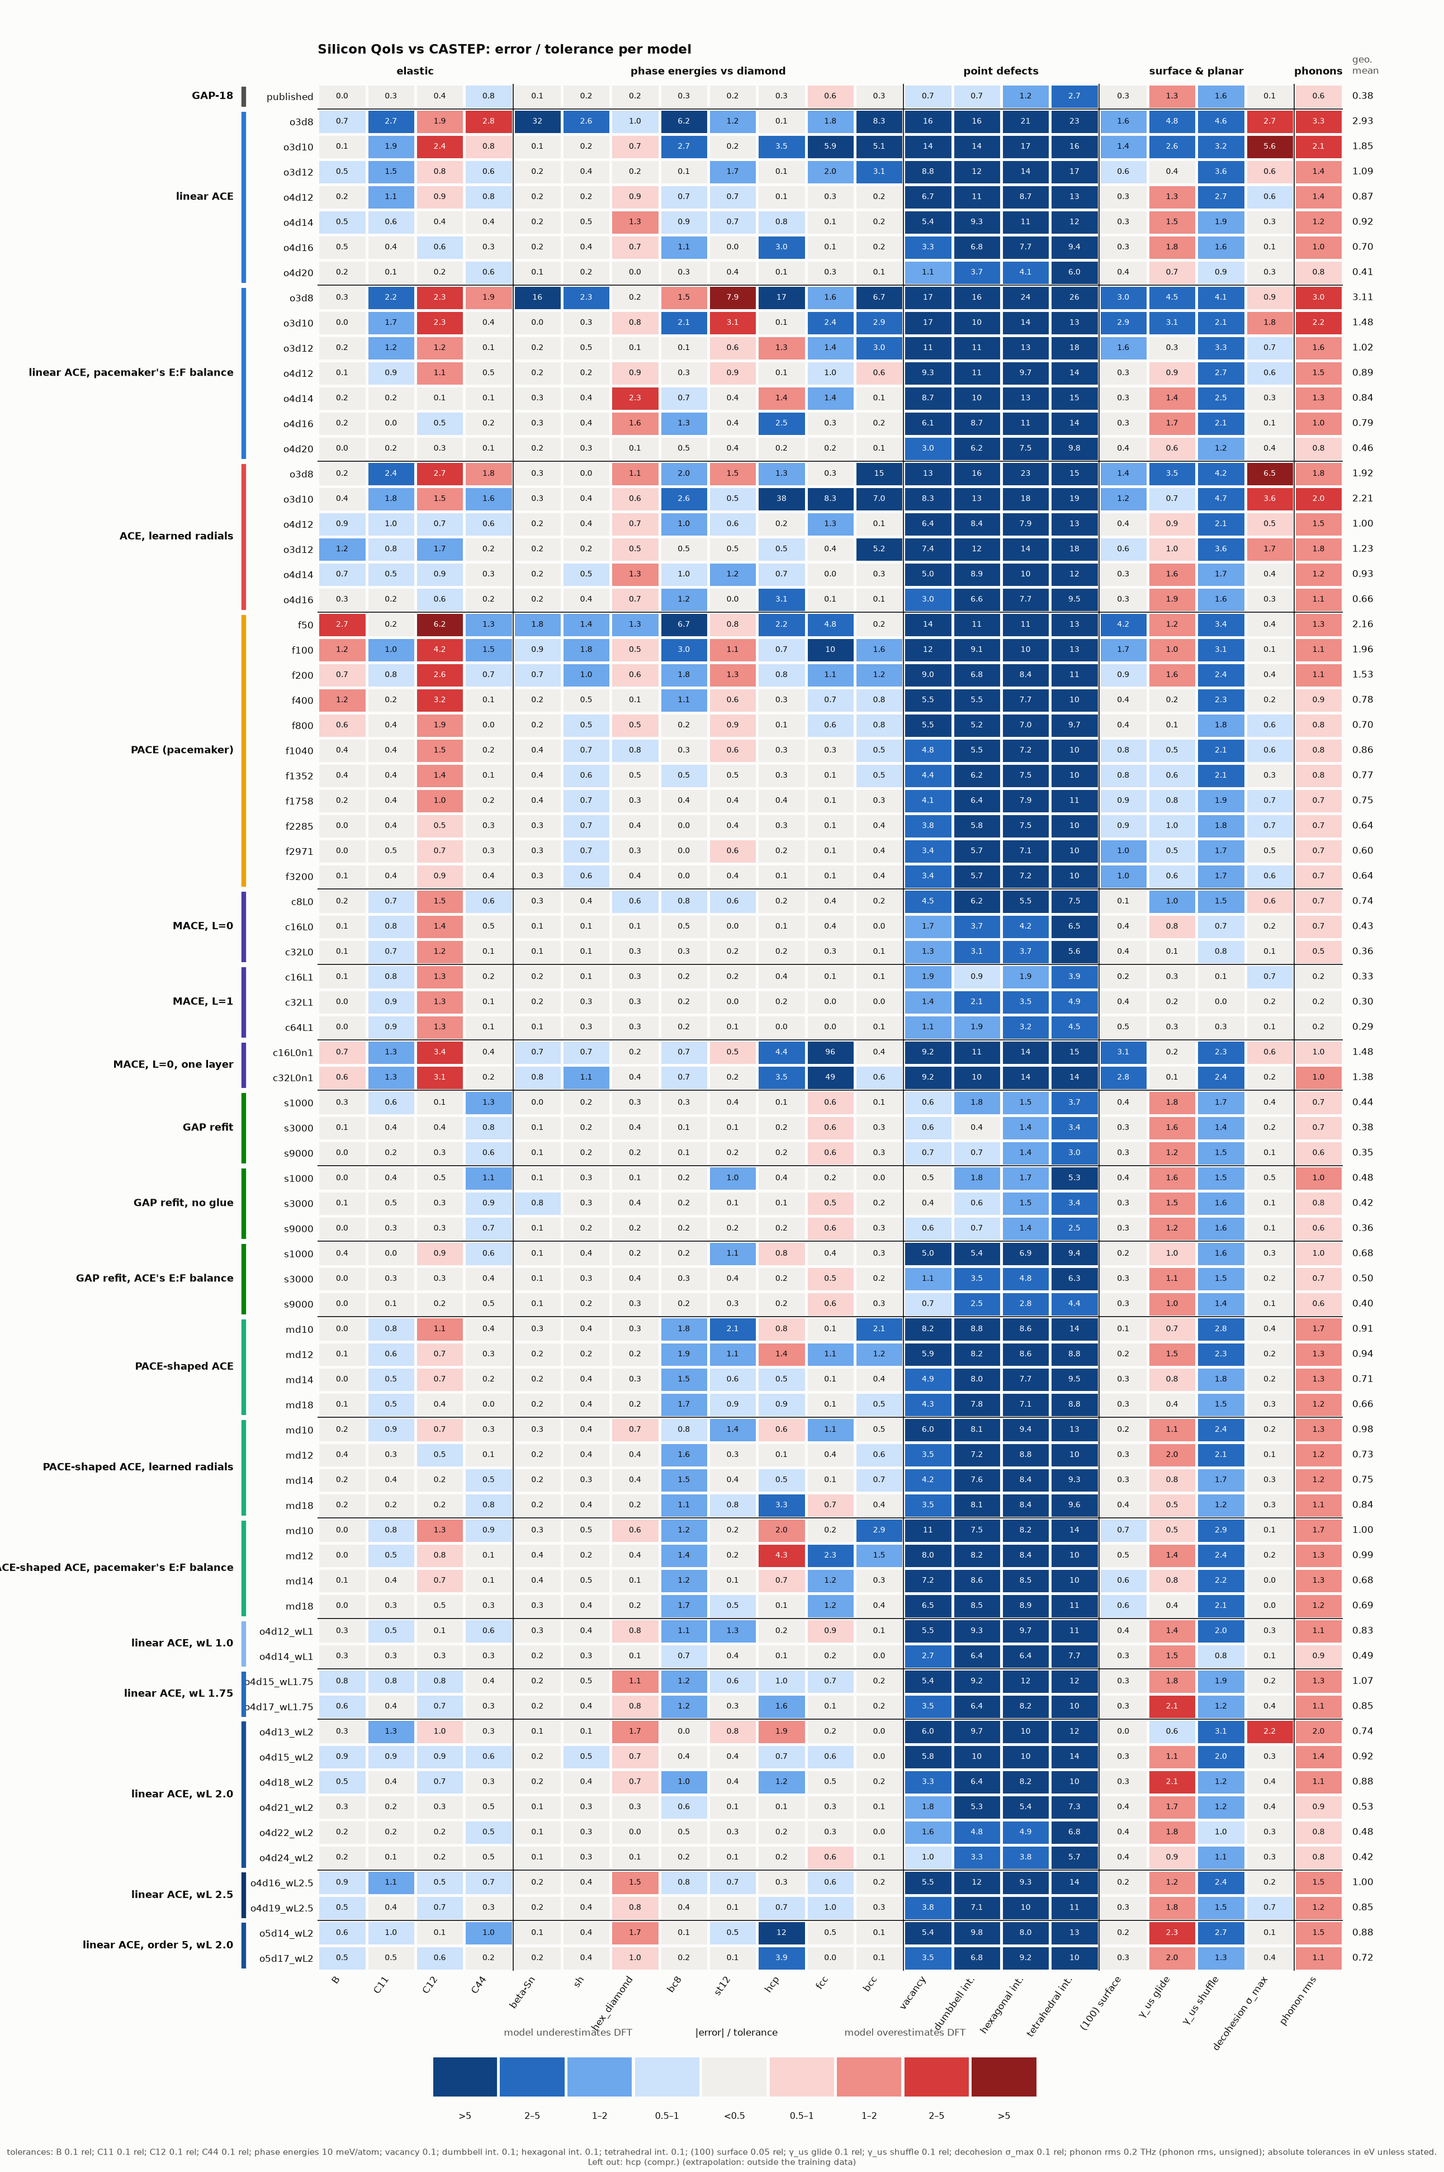
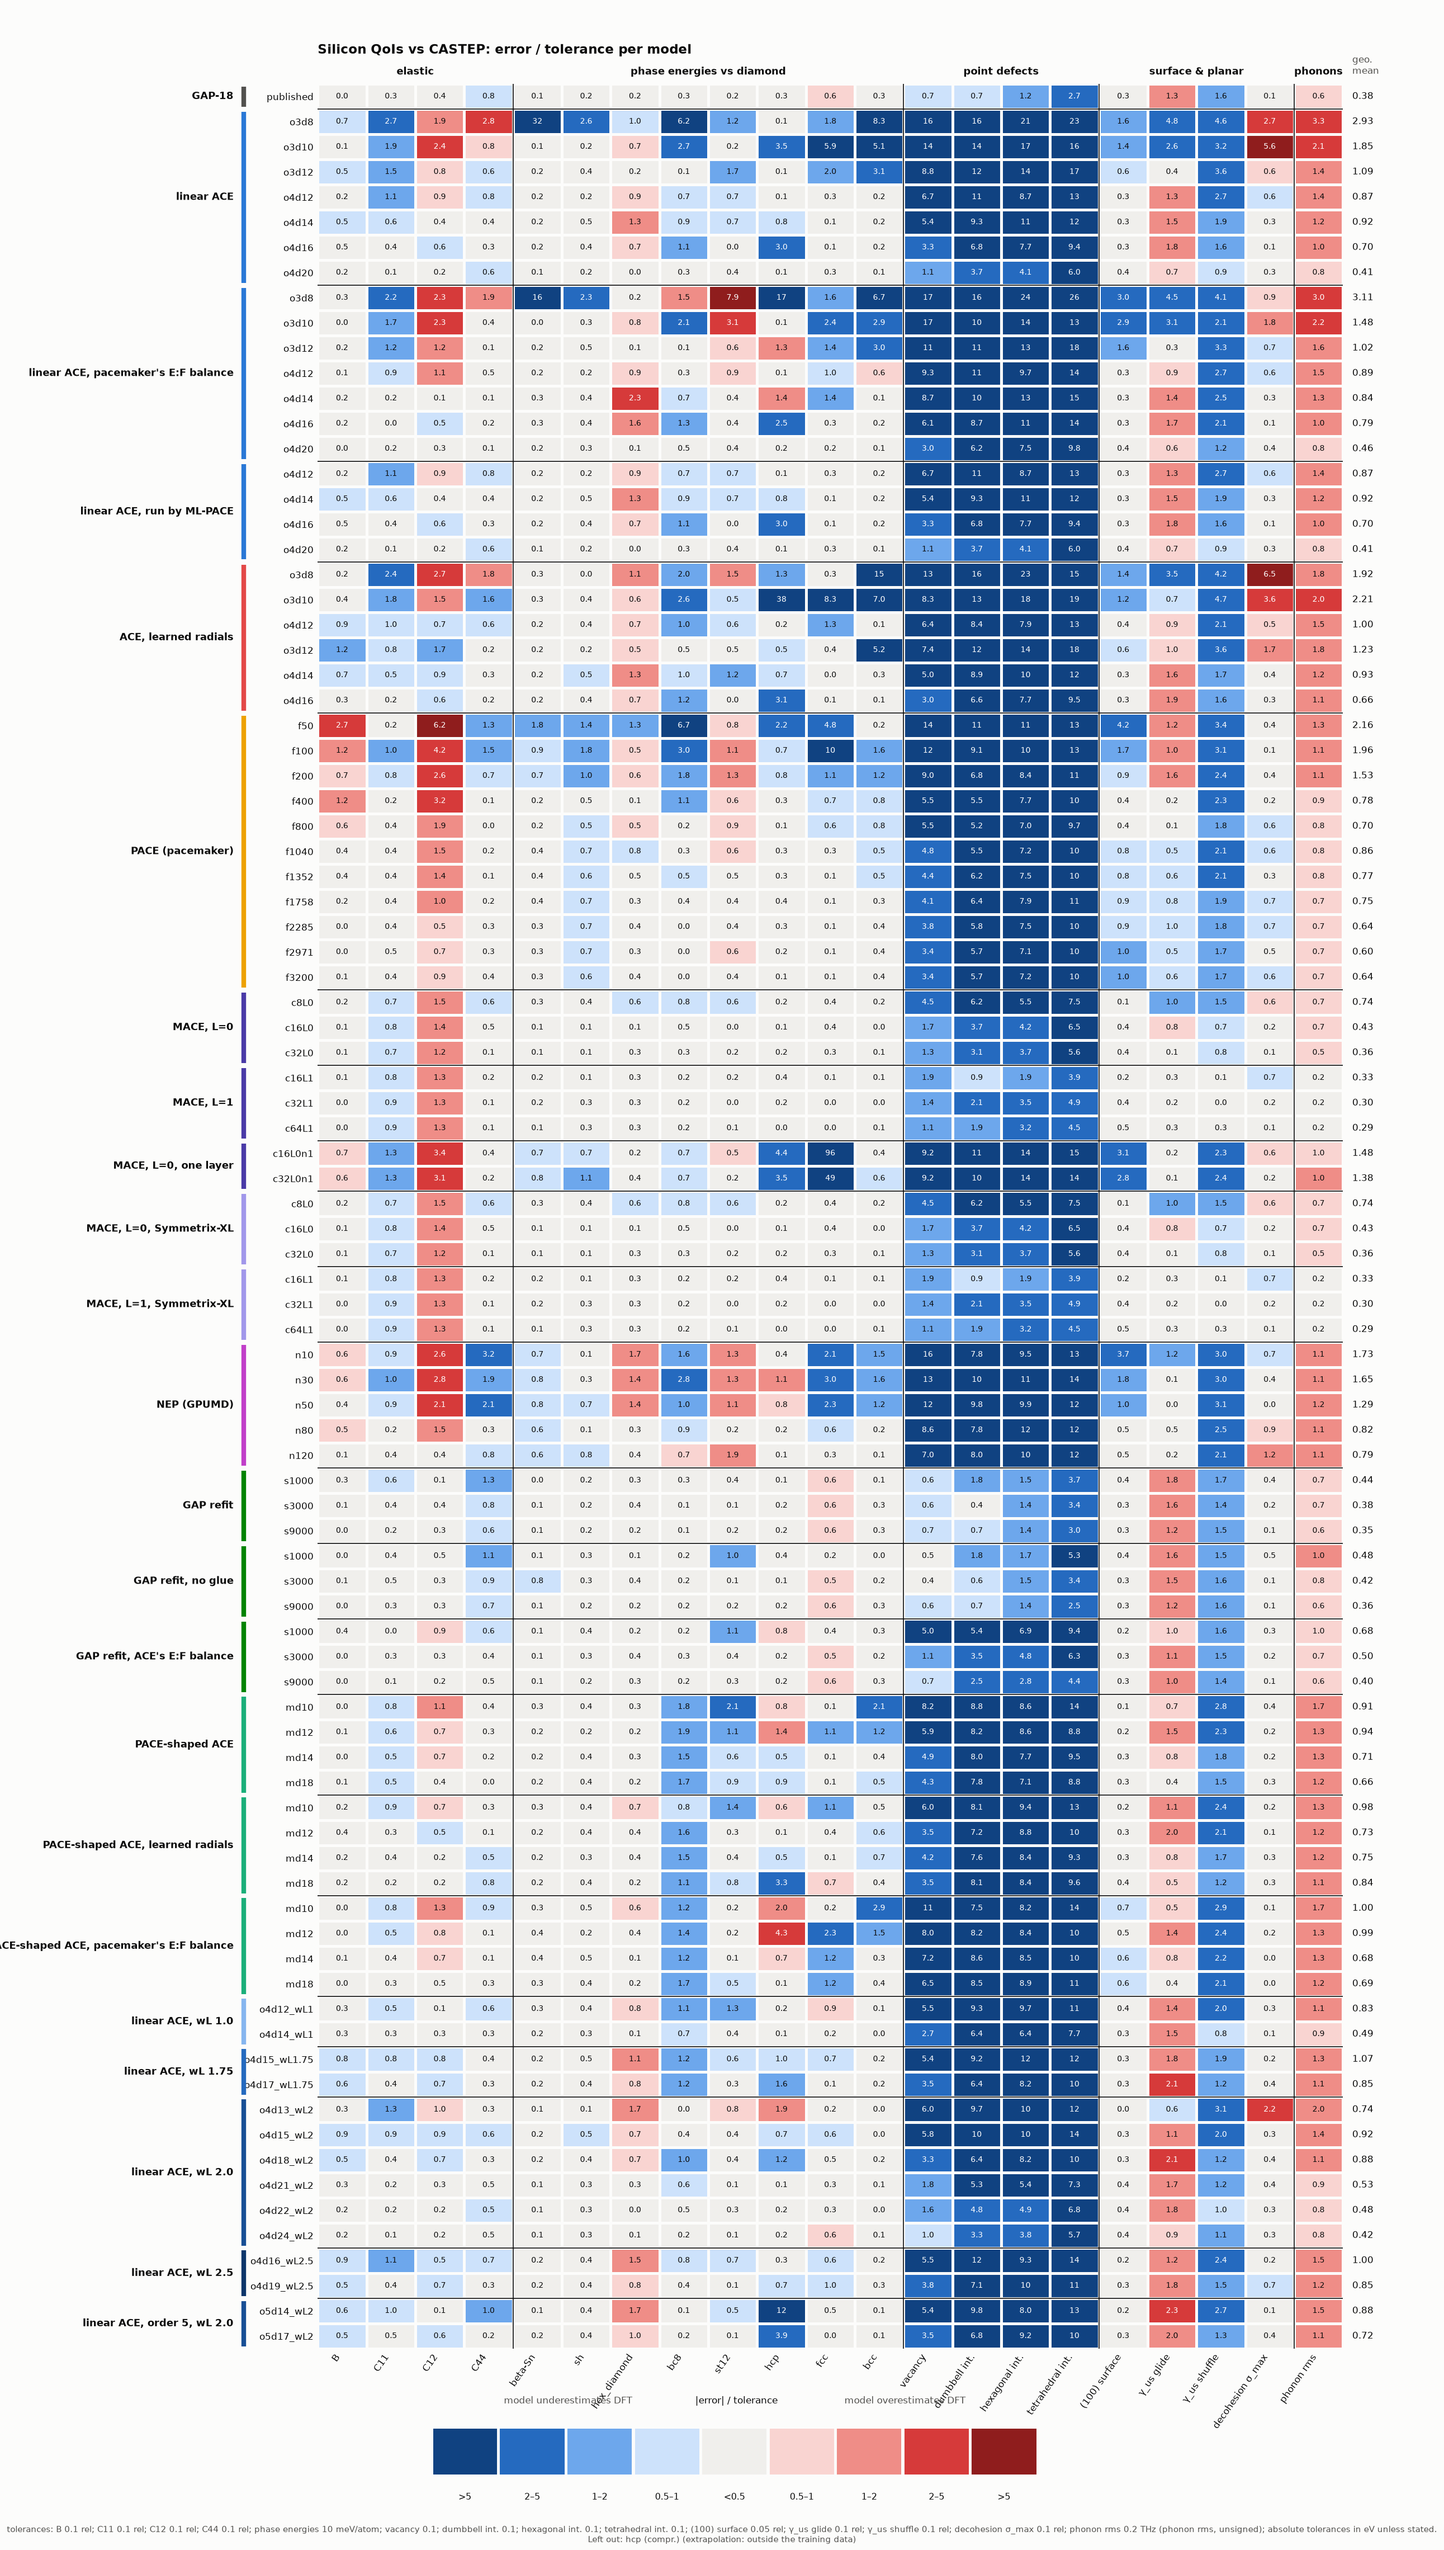
feat(bench): NEP results in the silicon accuracy-cost benchmark
Five GPUMD NEP4 fits (n10-n120) scored in float64 with NEP_CPU (calorine) and
timed on a Sulis CPU node with LAMMPS pair_style nep (128 ranks, gated against
CPUNEP to < 2e-14 eV/A). None reaches the target: best force RMSE 0.107 eV/A,
best QoI error 0.79; CPU cost 0.55-1.9 us/atom-step. No GPU row (GPUMD's GPU
inference is mixed precision).

fit_nep.calculator reports free_energy (CPUNEP has none; ASE's cell filters
ask for it).

diff --git a/bench/si_qoi/plot_cost.py b/bench/si_qoi/plot_cost.py
@@ -289,13 +289,14 @@ def main():
                 "GPU ML-PACE: LAMMPS develop ec02ed0 (with the 2026-08 pace/kk GPU rewrite).\n"
                 "Linear ACE run by ACEpotentials.jl (CPU only): each fit as an ACEpotentials model, exported and compiled "
                 "with juliac --trim (ACEpotentials PR 309, v0.10.2), in LAMMPS via its pair_style ace plugin.\n"
+                "NEP: trained by GPUMD, run in LAMMPS pair_style nep (NEP_CPU, float64); no GPU row (GPUMD's GPU inference is mixed precision).\n"
                 if any("CPU" in r[0] for r in rows) else "")
     if not a.no_note:
         fig.text(0.5, 0.003, cpu_note + "QoI error clips each QoI to [0.05, 10] x tolerance; compressed hcp is left out (extrapolation, "
                  "outside the training data); only models with every QoI computed.\n"
                  "Cost: the fastest parity-checked code per model, float64 only (one-layer MACE and, on the GPU, Symmetrix MACE c64L1 have "
                  "float32 timings only and are left out of the cost rows). Single fits per point.", ha="center", fontsize=8.5, color=MUTED)
-    fig.tight_layout(rect=(0, 0 if a.no_note else 0.055, 1, 1 - 1.0 / fig.get_figheight()))
+    fig.tight_layout(rect=(0, 0 if a.no_note else 0.065, 1, 1 - 1.0 / fig.get_figheight()))
     pathlib.Path(a.out).parent.mkdir(parents=True, exist_ok=True)
     fig.savefig(a.out, dpi=150); print("wrote", a.out)
 

diff --git a/bench/accuracy_cost/fit_nep.py b/bench/accuracy_cost/fit_nep.py
@@ -87,11 +87,14 @@ def calculator(path):
     from calorine.calculators import CPUNEP
 
     class _NEP(CPUNEP):
+        def __init__(self, *a, **k):
+            super().__init__(*a, **k)
+            self.implemented_properties.append("free_energy")   # CPUNEP.__init__ sets the list per instance
+
         def calculate(self, atoms=None, properties=None, system_changes=None):
             super().calculate(atoms, properties, system_changes)
-            for k in ("energy", "free_energy"):
-                if k in self.results:
-                    self.results[k] = self.results[k] + len(self.atoms) * E0_SI
+            self.results["energy"] = self.results["energy"] + len(self.atoms) * E0_SI
+            self.results["free_energy"] = self.results["energy"]   # CPUNEP has none; ASE's cell filters ask for it
             if "energies" in self.results:
                 self.results["energies"] = self.results["energies"] + E0_SI
     return _NEP(str(path))

diff --git a/docs/dev/accuracy-cost-results.md b/docs/dev/accuracy-cost-results.md
@@ -42,6 +42,7 @@ Not reached in their ladders (best QoI error, at that model's force RMSE):
 | PACE-shaped ACE (fixed / learned radials) | 0.66 / 0.73 | md18 / md12 | 0.107 / 0.110 |
 | GAP refit (glue / no glue / ACE's E:F balance) | 0.35 / 0.36 / 0.40 | s9000 | 0.088 / 0.088 / 0.085 |
 | MACE, one layer | 1.38 | c32L0n1 | 0.102 |
+| NEP (GPUMD) | 0.79 | n120 | 0.108 |
 
 The GAP refits meet the QoI target but not GAP-18's force error; PACE meets the force target with fewer
 parameters than linear ACE (f800: 761 parameters, 0.081 eV/Å) but not the QoI target.
@@ -57,6 +58,10 @@ parameters than linear ACE (f800: 761 parameters, 0.081 eV/Å) but not the QoI t
   and 0.59 at o4d14, against 0.85 for ML-PACE (o4d14) and 3.4-7.9 for lammps-jax. It ties ML-PACE at o4d16
   (1.42 vs 1.41) and is 2x slower at o4d20 (10.8 vs 5.39), still 4.6x faster than lammps-jax there. Parity
   against ace-jax on the npz: |dE|/atom <= 6.5e-12 eV, |dF| <= 1.2e-11 eV/Å over the ladder. CPU only.
+- **NEP** is the cheapest family on the CPU (0.55-1.9 µs/atom-step, n10-n120) but plateaus at 0.107 eV/Å
+  (n80; n120 is no better) and QoI error 0.79: n120's point-defect energies are 19-31% low. Trained with GPUMD
+  v5.9.1 (NEP4, 5 Å radial and angular cutoffs, 100k generations, weights.mace per-config weights); one fit per
+  size, no cutoff or loss-weight search.
 - **Symmetrix-XL** is 1.1-3.6x faster than Symmetrix for the same MACE models, most at L = 1 on the GPU.
 - **The DAG product basis** (`aa_dag="greedy"`, #90) gives ace-jax's fastest CPU rows at o4d16 and o4d20; it
   also cuts the compiled temporary memory (o4d20: 3.9 GB to 0.64 GB on one core).
@@ -79,6 +84,10 @@ parameters than linear ACE (f800: 761 parameters, 0.081 eV/Å) but not the QoI t
   ace-jax before compiling), exported with `for_library=true` and compiled by `juliac --trim=safe` on a compute
   node (Julia 1.12.6; `accuracy_cost/build_trim.py`, `envs/sulis-cpu-trim.sbatch`), run by the PR 309
   `pair_style ace` plugin in the same LAMMPS (`bench/scaling/envs/sulis-acepot.sh`); 128 x 1 ranks only.
+- NEP: LAMMPS develop ec02ed0 + NEP_CPU af615ce's USER-NEP (`pair_style nep`, float64, 128 x 1 ranks;
+  `bench/scaling/envs/sulis-nep.sh`, `envs/sulis-cpu-nep.sbatch`), gated against calorine's CPUNEP (same
+  code, < 2e-14 eV/Å). No GPU row: GPUMD's GPU inference is mixed precision (float descriptors and network).
+  Test errors and QoIs also use CPUNEP, in float64.
 - QoIs: compressed ("short and fat") hcp is left out of the score (outside the training data; it measures
   extrapolation); only models with every QoI computed are plotted. Single fits per point.
 - GAP's parameter count is its sparse-point coefficients; the kernel also stores the sparse descriptors.

diff --git a/docs/user/benchmarks.md b/docs/user/benchmarks.md
@@ -15,8 +15,8 @@ set. The data is the GAP-18 silicon dataset (2,475 configurations: 2,227 for
 training and 248 for testing).
 
 - **Model families.** Linear ACE (ace-jax), ACE with learned radials,
-  PACE-shaped ACE, PACE (pacemaker), MACE with L = 0 and L = 1, and GAP
-  refits. Each family has a ladder of model sizes. Each point is one fit.
+  PACE-shaped ACE, PACE (pacemaker), MACE with L = 0 and L = 1, NEP
+  (trained with GPUMD) and GAP refits. Each family has a ladder of model sizes. Each point is one fit.
 - **Force error.** The root-mean-square force error on the test set.
 - **QoI error.** 21 silicon properties are calculated with each model and
   compared with DFT: elastic constants, energies of other phases, point
@@ -47,8 +47,10 @@ At the target, in microseconds per atom-step:
 | MACE c16L1, Symmetrix-XL | 1.47 | 2.87 |
 
 In these ladders, PACE (pacemaker), ACE with learned radials, PACE-shaped
-ACE and the GAP refits do not reach the target. PACE reaches the force error
-of GAP-18 with fewer parameters than linear ACE, but not the QoI target.
+ACE, NEP and the GAP refits do not reach the target. PACE reaches the force
+error of GAP-18 with fewer parameters than linear ACE, but not the QoI target.
+NEP has the lowest CPU cost (0.55 to 1.9 µs/atom-step). Its smallest force
+error is 0.107 eV/Å and its smallest QoI error is 0.79.
 
 On the CPU, the ACEpotentials.jl compiled library is the fastest code for
 linear ACE up to o4d14. It has the same speed as ML-PACE at o4d16. At
@@ -78,6 +80,9 @@ o4d20 it is 2 times slower than ML-PACE.
 - **MACE** runs in LAMMPS with Symmetrix and, separately, with
   Symmetrix-XL.
 - **GAP** runs in LAMMPS with QUIP, on the CPU only.
+- **NEP** is trained with GPUMD. It runs in LAMMPS with `pair_style nep`
+  (NEP_CPU, float64), on the CPU only. GPUMD evaluates NEP on the GPU in
+  mixed precision, so NEP has no GPU result here.
 - **Before each timing**, a short check compares the energies and forces
   in LAMMPS with the reference evaluation of the same model.
 
